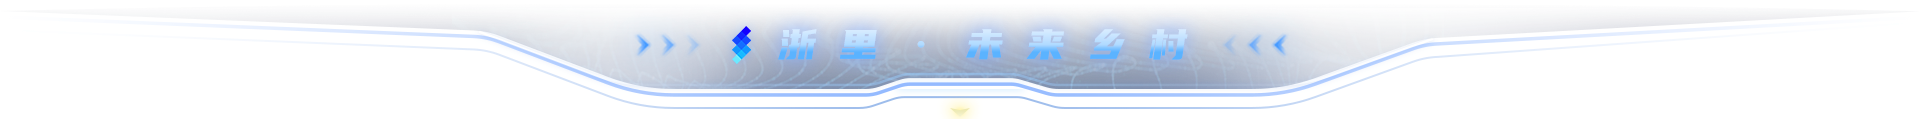
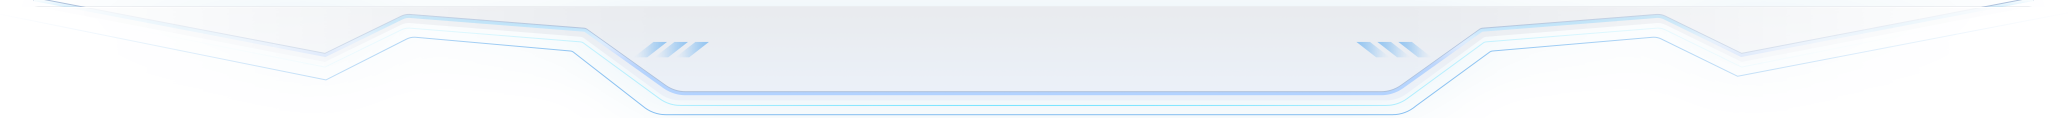
首页头部、底部、部分左侧

diff --git a/src/components/AppBottom/AppName.vue b/src/components/AppBottom/AppName.vue
@@ -2,7 +2,7 @@
 <template>
   <div class="AppName-root">
     <div class="name-box">
-      <div class="first-name">{{ firstName }}</div>
+      <div class="first-name" @click="changeShow()">{{ firstName }}</div>
     </div>
   </div>
 </template>
@@ -10,60 +10,40 @@
 <script setup>
 import { ref } from 'vue';
 
-const firstName = ref('全景导览驾驶舱');
+const firstName = ref('切换');
+function changeShow() {
+  console.log('切换');
+}
 </script>
 
 <style lang="scss" scoped>
 .AppName-root {
   position: absolute;
-  height: 92px;
-  display: flex;
-  align-items: center;
+  height: 117px;
   background-size: 50px 30px, 50px 30px;
   background-position: 0 center, 100% center;
   background-repeat: no-repeat, no-repeat;
-  padding: 0 76px;
+  padding: 30px 76px;
   .name-box {
     display: flex;
     align-items: center;
     cursor: pointer;
     user-select: none;
-    //line-height: 1;
-    //font-family: 'Source Han Serif CN';
-    //font-weight: 800;
-    //color: rgb(255, 247, 165);
-    //text-shadow: 0px 7px 18.24px rgba(0, 0, 0, 0.36);
-
     font-family: YouSheBiaoTiHei;
     font-weight: 400;
     line-height: 106px;
-    //text-shadow: 0px 5px 5px rgba(0, 0, 0, 0.2);
-
-    //background: linear-gradient(0deg, #b2d2ff 0%);
     -webkit-background-clip: text;
     .first-name {
-      font-size: 56px;
+      font-size: 44px;
       font-family: YouSheBiaoTiHei;
       font-weight: 400;
       color: #f0f0f0;
       line-height: 106px;
+      //text-shadow: 0px 5px 5px rgba(0, 0, 0, 0.2);
+
       background: linear-gradient(0deg, #b2d2ff 0%, #f0f0f0);
       -webkit-background-clip: text;
       -webkit-text-fill-color: transparent;
-      //text-shadow: 0px 5px 5px rgba(0, 0, 0, 0.2);
-      text-shadow: none !important;
-    }
-    .second-name-box {
-      margin-left: 15px;
-      font-size: 20px;
-      letter-spacing: 2px;
-      .second-name {
-        border-bottom: 1px solid #fff7a5;
-        line-height: 1.4;
-      }
-      .second-name:last-child {
-        border-color: transparent;
-      }
     }
   }
 }

diff --git a/src/pages/Home/Left/index.vue b/src/pages/Home/Left/index.vue
@@ -1,0 +1,81 @@
+<template>
+  <div class="left-content">
+    <div class="title">
+      <h3 class="theme-font-style">业务导览</h3>
+      <div class="eglish-name">Business Guide</div>
+      <div class="list-btn">
+        <div class="icon"></div>
+      </div>
+    </div>
+    <div class="list">
+      <div class="list-item">
+        <img src="" alt="" />
+        <div class="name">
+          <div class="name-text"></div>
+          <div class="name-eglish"></div>
+        </div>
+      </div>
+    </div>
+  </div>
+</template>
+
+<script>
+export default {
+  name: 'index',
+};
+</script>
+
+<style lang="scss" scoped>
+.left-content {
+  z-index: 10;
+  background: url('./img/bg_img_left.png') no-repeat;
+  position: absolute;
+  left: 280px;
+  width: 640px;
+  height: 100%;
+  .title {
+    position: absolute;
+    left: 145px;
+    top: 97px;
+    h3 {
+      font-size: 50px;
+      margin: 0;
+      padding: 0;
+    }
+    .eglish-name {
+      font-size: 15px;
+      font-family: DIN-BlackItalic;
+      font-weight: 400;
+      color: #7684be;
+    }
+    .list-btn {
+      cursor: pointer;
+      position: absolute;
+      left: 205px;
+      top: 20px;
+      width: 24px;
+      height: 24px;
+      border: 1px solid #78abdb;
+      border-radius: 4px;
+      .icon {
+        position: absolute;
+        left: 50%;
+        top: 50%;
+        transform: translate(-50%, -50%);
+        width: 0;
+        height: 0;
+        border-top: 8px solid white;
+        border-left: 6.5px solid rgba(255, 255, 255, 0);
+        border-right: 6.5px solid rgba(255, 255, 255, 0);
+      }
+    }
+  }
+  .list {
+    position: absolute;
+    top: 250px;
+    .list-item {
+      display: flex;
+    }
+  }
+}
+</style>

diff --git a/src/config/appConfig.js b/src/config/appConfig.js
@@ -7,7 +7,7 @@ const prodConfig = {
   apiHost: '/apiProxyCockpit', // 接口代理
   mapHost: 'https://xfsqxcx.deqing.gov.cn/arcgis',
   userHost: '/userProxy', // 用户模块代理
-  width: 1920,
+  width: 3840,
   height: 1080,
   isLogin: true,
   tdtUrl: 'https://t{s}.tianditu.gov.cn/',
@@ -25,7 +25,7 @@ const devConfig = {
   apiHost: '/apiProxy', // 接口代理
   userHost: 'http://172.16.24.139:7000/',
   mapHost: 'https://xfsqxcx.deqing.gov.cn/arcgis',
-  width: 1920, // 大屏分辨率-宽
+  width: 3840, // 大屏分辨率-宽
   height: 1080, // 大屏分辨率-高
   isLogin: false, // 是否需要验证登录
   tdtUrl: 'https://t{s}.tianditu.gov.cn/',

diff --git a/src/components/AppBottom/index.vue b/src/components/AppBottom/index.vue
@@ -2,14 +2,10 @@
 <template>
   <div class="AppTitle-root">
     <AppName />
-    <!--    <TitleOther />-->
   </div>
-  <!--  <AppList />-->
 </template>
 
 <script setup>
-// import AppList from './AppList';
-// import TitleOther from './TitleOther';
 import AppName from './AppName';
 </script>
 
@@ -19,11 +15,11 @@ import AppName from './AppName';
   z-index: 9;
   display: flex;
   justify-content: center;
-  top: 0;
+  bottom: 0;
   left: 0;
   width: 100%;
   height: 118px;
-  background: url('./AppTitle-bg.png') center 0 no-repeat;
+  background: url('./AppBottom-bg.png') center 0 no-repeat;
   //background-size: ;
 }
 </style>

diff --git a/src/pages/Home/index.vue b/src/pages/Home/index.vue
@@ -1,11 +1,22 @@
 <template>
-  <div>dd</div>
+  <div class="content">
+    <Left />
+    <CenterContent />
+    <Right />
+  </div>
 </template>
 
-<script>
-export default {
-  name: 'index',
-};
+<script setup>
+import Left from './Left/index';
+import Right from './Right/index';
+import CenterContent from './Center/index';
 </script>
 
-<style scoped></style>
+<style lang="scss" scoped>
+.content {
+  position: relative;
+  width: 100%;
+  height: 100%;
+  //background: url('./page_bg.jpg') left top no-repeat;
+}
+</style>

diff --git a/src/pages/Home/Center/index.vue b/src/pages/Home/Center/index.vue
@@ -1,0 +1,27 @@
+<template>
+  <div class="center-content">
+    <div class="mask"></div>
+    <AppBottom />
+  </div>
+</template>
+
+<script>
+export default {
+  name: 'index',
+};
+</script>
+
+<style lang="scss" scoped>
+.center-content {
+  width: 100%;
+  height: 100%;
+  position: relative;
+  .mask {
+    width: 100%;
+    height: 100%;
+    background: url('./img/mask.png') center no-repeat;
+    pointer-events: none;
+    //background-size: 100% 100%;
+  }
+}
+</style>

diff --git a/src/pages/Home/Right/index.vue b/src/pages/Home/Right/index.vue
@@ -1,0 +1,21 @@
+<template>
+  <div class="right-content"></div>
+</template>
+
+<script>
+export default {
+  name: 'index',
+};
+</script>
+
+<style lang="scss" scoped>
+.right-content {
+  //background-color: pink;
+  background: url('./img/bg_img_right.png') no-repeat;
+  position: absolute;
+  top: 0;
+  right: 280px;
+  width: 641px;
+  height: 100%;
+}
+</style>

diff --git a/src/assets/scss/global.scss b/src/assets/scss/global.scss
@@ -96,3 +96,13 @@ body {
 ::-webkit-scrollbar-corner {
   background: rgba(255, 255, 255, 0);
 }
+
+// 艺术字体
+.theme-font-style {
+  font-family: YouSheBiaoTiHei;
+  font-weight: 400;
+  color: #f9f9f9;
+  background: linear-gradient(0deg, #b2d2ff 0%, #f9f9f9);
+  -webkit-background-clip: text;
+  -webkit-text-fill-color: transparent;
+}
